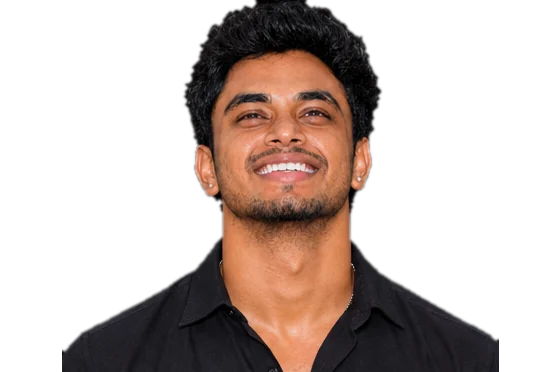
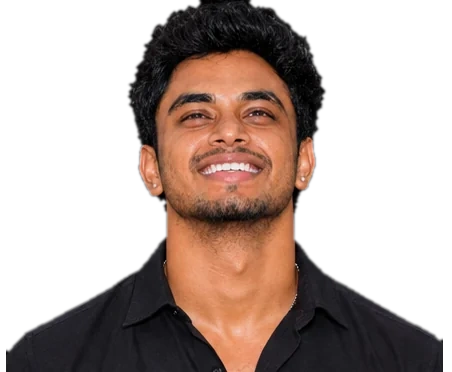
Align the portrait with the heading and close the gap beneath it
- Crop every pose to one tight frame (452x372) so the figure's left
  edge sits on the text's left edge; the main poses are within 0-3px
- Portrait box is 232px wide to match the 233px "Hey there, I'm Guna"
  block, and the text now sits 16px below it (was 32px plus empty
  space inside the photos)
- Fade only the bottom 12% of the portrait

Claude-Session: https://claude.ai/code/session_01QvPSy9MqdNzqBGSTSEWLuU

Changed region(s): [[0.0, 0.0, 0.9912, 1.0], [0.7434, 0.8575, 0.7743, 0.8871]]

diff --git a/app/globals.css b/app/globals.css
@@ -15,8 +15,8 @@ html { scroll-behavior: smooth; }
 
 
 /* Interactive portrait: fluid width, one photo visible at a time, soft edges */
-.ip { position: relative; width: min(240px, 64vw); aspect-ratio: 3 / 2; perspective: 900px;
-  -webkit-mask-image: radial-gradient(ellipse 62% 98% at 50% 28%, #000 52%, transparent 100%); mask-image: radial-gradient(ellipse 62% 98% at 50% 28%, #000 52%, transparent 100%); }
+.ip { position: relative; width: min(232px, 100%); aspect-ratio: 452 / 372; perspective: 900px;
+  -webkit-mask-image: linear-gradient(to bottom, #000 88%, transparent 100%); mask-image: linear-gradient(to bottom, #000 88%, transparent 100%); }
 .ip-stack { position: absolute; inset: 0; will-change: transform; }
 .ip-img { position: absolute; inset: 0; width: 100%; height: 100%; display: block; user-select: none; pointer-events: none; }
 

diff --git a/app/page.tsx b/app/page.tsx
@@ -158,9 +158,11 @@ export default function Portfolio() {
         {/* Intro */}
         <section className="relative flex flex-col gap-8">
           <RevealGrid className="-top-36 bottom-0 left-1/2 w-screen -translate-x-1/2 [-webkit-mask-image:linear-gradient(to_bottom,#000_60%,transparent)] [mask-image:linear-gradient(to_bottom,#000_60%,transparent)]" />
-          <Focus>
-            <InteractivePortrait />
-          </Focus>
+          <div className="-mb-4">
+            <Focus>
+              <InteractivePortrait />
+            </Focus>
+          </div>
           <div className="flex flex-col gap-4">
           <Focus delay={0.12}>
           <div className="flex flex-col gap-1 text-[14px] leading-5">

diff --git a/components/InteractivePortrait.tsx b/components/InteractivePortrait.tsx
@@ -27,7 +27,7 @@ const clamp = (v: number, a: number, b: number) => Math.max(a, Math.min(b, v));
 type Props = { maxWidth?: number; base?: string };
 
 /** One photo is visible at a time (frame swapping, like the reference), so there is never a ghost of another pose. */
-export default function InteractivePortrait({ maxWidth = 240, base = "/poses" }: Props) {
+export default function InteractivePortrait({ maxWidth = 232, base = "/poses" }: Props) {
   const reduce = useReducedMotion();
   const ref = useRef<HTMLDivElement>(null);
   const mx = useMotionValue(0);
